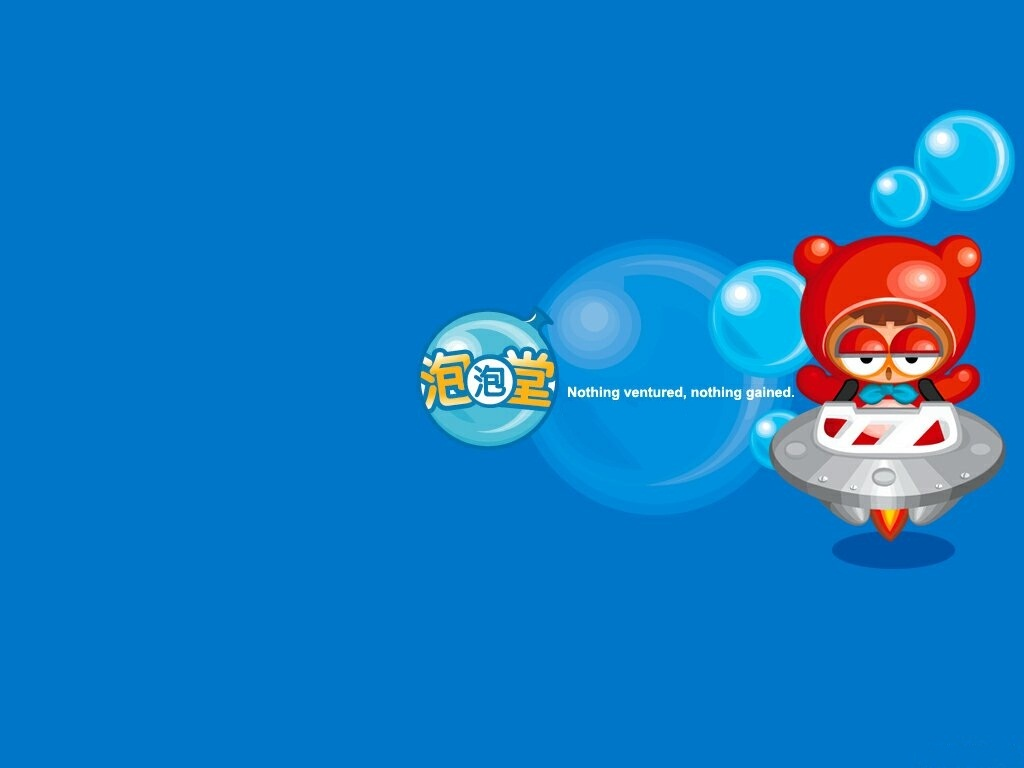
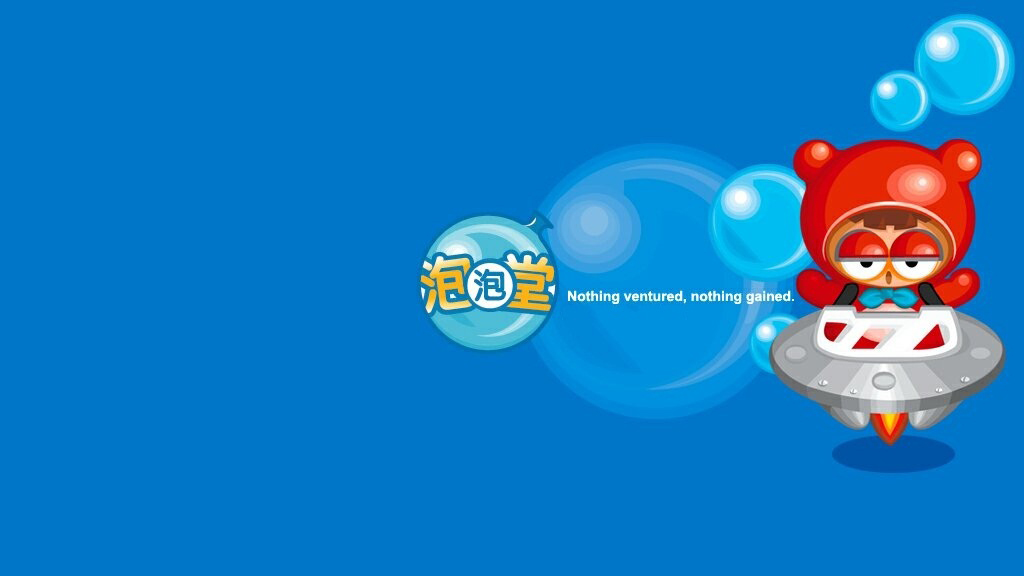
修正部分图片，新增简易碰撞检测

Changed region(s): [[0.4062, 0.0, 1.0, 0.8438], [0.5938, 0.4375, 0.625, 0.4688]]

diff --git a/core/src/com/pomo/game/poptang/stages/DanRenGameStage.java b/core/src/com/pomo/game/poptang/stages/DanRenGameStage.java
@@ -1,8 +1,12 @@
 package com.pomo.game.poptang.stages;
 
 import com.badlogic.gdx.Gdx;
+import com.badlogic.gdx.graphics.GL20;
 import com.badlogic.gdx.graphics.OrthographicCamera;
+import com.badlogic.gdx.maps.objects.RectangleMapObject;
 import com.badlogic.gdx.maps.tiled.TiledMap;
+import com.badlogic.gdx.maps.tiled.TiledMapTileLayer;
+import com.badlogic.gdx.maps.tiled.TiledMapTileLayer.Cell;
 import com.badlogic.gdx.maps.tiled.TmxMapLoader;
 import com.badlogic.gdx.maps.tiled.renderers.OrthogonalTiledMapRenderer;
 import com.badlogic.gdx.scenes.scene2d.Stage;
@@ -11,46 +15,79 @@ import com.pomo.game.poptang.role.Player;
 
 /**
  * 单人模式舞台
+ * 
  * @author Mr.Po
  *
  */
-public class DanRenGameStage extends Stage{
+public class DanRenGameStage extends Stage implements IArrive{
 
+	//主游戏进程
 	PopTangGame game;
+	
+	//玩家
 	Player player;
+
+	//可摧毁的障碍物
+	TiledMapTileLayer barrierDestroible;
+	
+	//不可摧毁的障碍物
+	TiledMapTileLayer barrierUnDestroible;
 	
 	TiledMap map;
 	OrthogonalTiledMapRenderer render;
 	OrthographicCamera camera;
-	
+
 	public DanRenGameStage(PopTangGame game) {
 		this.game = game;
-		
+
 		initMap();
-		
+
 		initPlayer();
-		
+
 		Gdx.input.setInputProcessor(this);
 	}
-	
+
 	/**
 	 * 初始化地图
 	 */
-	private void initMap(){
+	private void initMap() {
+		
 		map = new TmxMapLoader().load("/map/drms-1.tmx");
-		render = new OrthogonalTiledMapRenderer(map, 1/16f);
+		
+		barrierDestroible = (TiledMapTileLayer)this.map.getLayers().get("barrier-destroible");
+		
+		barrierUnDestroible = (TiledMapTileLayer)this.map.getLayers().get("barrier-un-destroible");
+		
+		render = new OrthogonalTiledMapRenderer(map, 1 / 16f);
 		camera = new OrthographicCamera();
-	    camera.setToOrtho(false, getWidth()/getHeight()*20, 20);
+		camera.setToOrtho(false, getWidth(), getHeight());
+
+		render.setView(camera);
 	}
-	
+
 	/**
 	 * 初始化玩家
 	 */
-	private void initPlayer(){
-		this.player = new Player(this.getWidth()/2,this.getHeight()/2);
-		this.player.init("image/slice/P1.png", 4, 4);
+	private void initPlayer() {
 		
+		this.player = new Player(this);
+		this.player.init("image/slice/P1.png", 4, 4);
+
 		this.addActor(this.player);
+		
+		RectangleMapObject mapObject = (RectangleMapObject)this.map.getLayers().get("player").getObjects().get("P1");
+		
+		//设置玩家的初始化位置
+		this.player.setX(mapObject.getRectangle().getX());
+		this.player.setY(mapObject.getRectangle().getY());
+	}
+
+	public void draw() {
+		Gdx.gl.glClearColor(0.55f, 0.55f, 0.55f, 1f);
+		Gdx.gl.glClear(GL20.GL_COLOR_BUFFER_BIT);
+		camera.update();
+
+		render.render();
 	}
 	
 	@Override
@@ -64,5 +101,13 @@ public class DanRenGameStage extends Stage{
 		this.player.action(-keycode);
 		return true;
 	}
-	
+
+	public boolean isArrive(float x,float y){
+		
+		Cell cellDestroible = barrierDestroible.getCell((int)(x/barrierDestroible.getTileWidth()), (int)(y/barrierDestroible.getTileHeight()));
+		Cell cellUnDestroible = barrierUnDestroible.getCell((int)(x/barrierDestroible.getTileWidth()), (int)(y/barrierDestroible.getTileHeight()));
+		
+		return cellDestroible==null && cellUnDestroible==null;
+		
+	}
 }

diff --git a/core/src/com/pomo/game/poptang/role/Player.java b/core/src/com/pomo/game/poptang/role/Player.java
@@ -8,6 +8,7 @@ import com.badlogic.gdx.graphics.Texture;
 import com.badlogic.gdx.graphics.g2d.Animation;
 import com.badlogic.gdx.graphics.g2d.Batch;
 import com.badlogic.gdx.graphics.g2d.TextureRegion;
+import com.pomo.game.poptang.stages.IArrive;
 
 /**
  * 玩家
@@ -22,11 +23,18 @@ public class Player extends Biont{
 	TextureRegion currentFrame;
 	float time;
 	
-	public Player(float x, float y){
-		setX(x);
-		setY(y);
+	IArrive iArrive;
+	
+	public Player(IArrive iArrive){
+		this.iArrive = iArrive;
 	}
 	
+	/**
+	 * 初始化玩家
+	 * @param path
+	 * @param numWidth
+	 * @param numHeight
+	 */
 	public void init(String path,int numWidth,int numHeight){
 		
 
@@ -53,12 +61,19 @@ public class Player extends Biont{
 		time += Gdx.graphics.getDeltaTime();
 
 		if(this.isBehave()){//是否采取行动
-			move();
+			move(TYPE_DIRECTION.UP.ordinal());
+			move(TYPE_DIRECTION.DOWN.ordinal());
+			move(TYPE_DIRECTION.LEFT.ordinal());
+			move(TYPE_DIRECTION.RIGHT.ordinal());
 		}
 
 		batch.draw(currentFrame, getX(), getY());
 	}
 	
+	/**
+	 * 移动
+	 * @param index	方向下标
+	 */
 	private void move(int index){
 		
 		if(this.direction[index]==0){
@@ -68,25 +83,33 @@ public class Player extends Biont{
 			this.currentFrame = this.hero[index][0];
 		}else{
 			this.currentFrame = behave[index].getKeyFrame(time, true);
+			
+			//判断正向移动还是逆向移动
 			int sign = (index==1 || index==2)?-1:1;
+			
+			float x=getX(),y=getY();
+			
+			//判断横纵向
 			if(index>1){
-				setX(getX()+this.speed*sign);
+				x = getX()+this.speed*sign;
 			}else{
-				setY(getY()+this.speed*sign);
+				y = getY()+this.speed*sign;
 			}
+			
+			//判断该方格是否能够到达
+			if(iArrive.isArrive(x, y)){
+				setX(x);
+				setY(y);
+			}
+			
 		}
 		
 	}
 	
-	private void move(){
-
-		move(TYPE_DIRECTION.UP.ordinal());
-		move(TYPE_DIRECTION.DOWN.ordinal());
-		move(TYPE_DIRECTION.LEFT.ordinal());
-		move(TYPE_DIRECTION.RIGHT.ordinal());
-		
-	}
-	
+	/**
+	 * 行动
+	 * @param keycode 行动指令
+	 */
 	public void action(int keycode) {
 
 		switch (Math.abs(keycode)) {

diff --git a/desktop/src/com/pomo/game/poptang/desktop/DesktopLauncher.java b/desktop/src/com/pomo/game/poptang/desktop/DesktopLauncher.java
@@ -6,7 +6,11 @@ import com.pomo.game.poptang.PopTangGame;
 
 public class DesktopLauncher {
 	public static void main (String[] arg) {
+		
 		LwjglApplicationConfiguration config = new LwjglApplicationConfiguration();
+		config.width=1024;
+		config.height=576;
+		
 		new LwjglApplication(new PopTangGame(), config);
 	}
 }

diff --git a/core/src/com/pomo/game/poptang/stages/IArrive.java b/core/src/com/pomo/game/poptang/stages/IArrive.java
@@ -1,0 +1,13 @@
+package com.pomo.game.poptang.stages;
+
+public interface IArrive {
+
+	/**
+	 * 是否允许到达(碰撞检测)
+	 * @param x
+	 * @param y
+	 * @return
+	 */
+	boolean isArrive(float x,float y);
+	
+}
